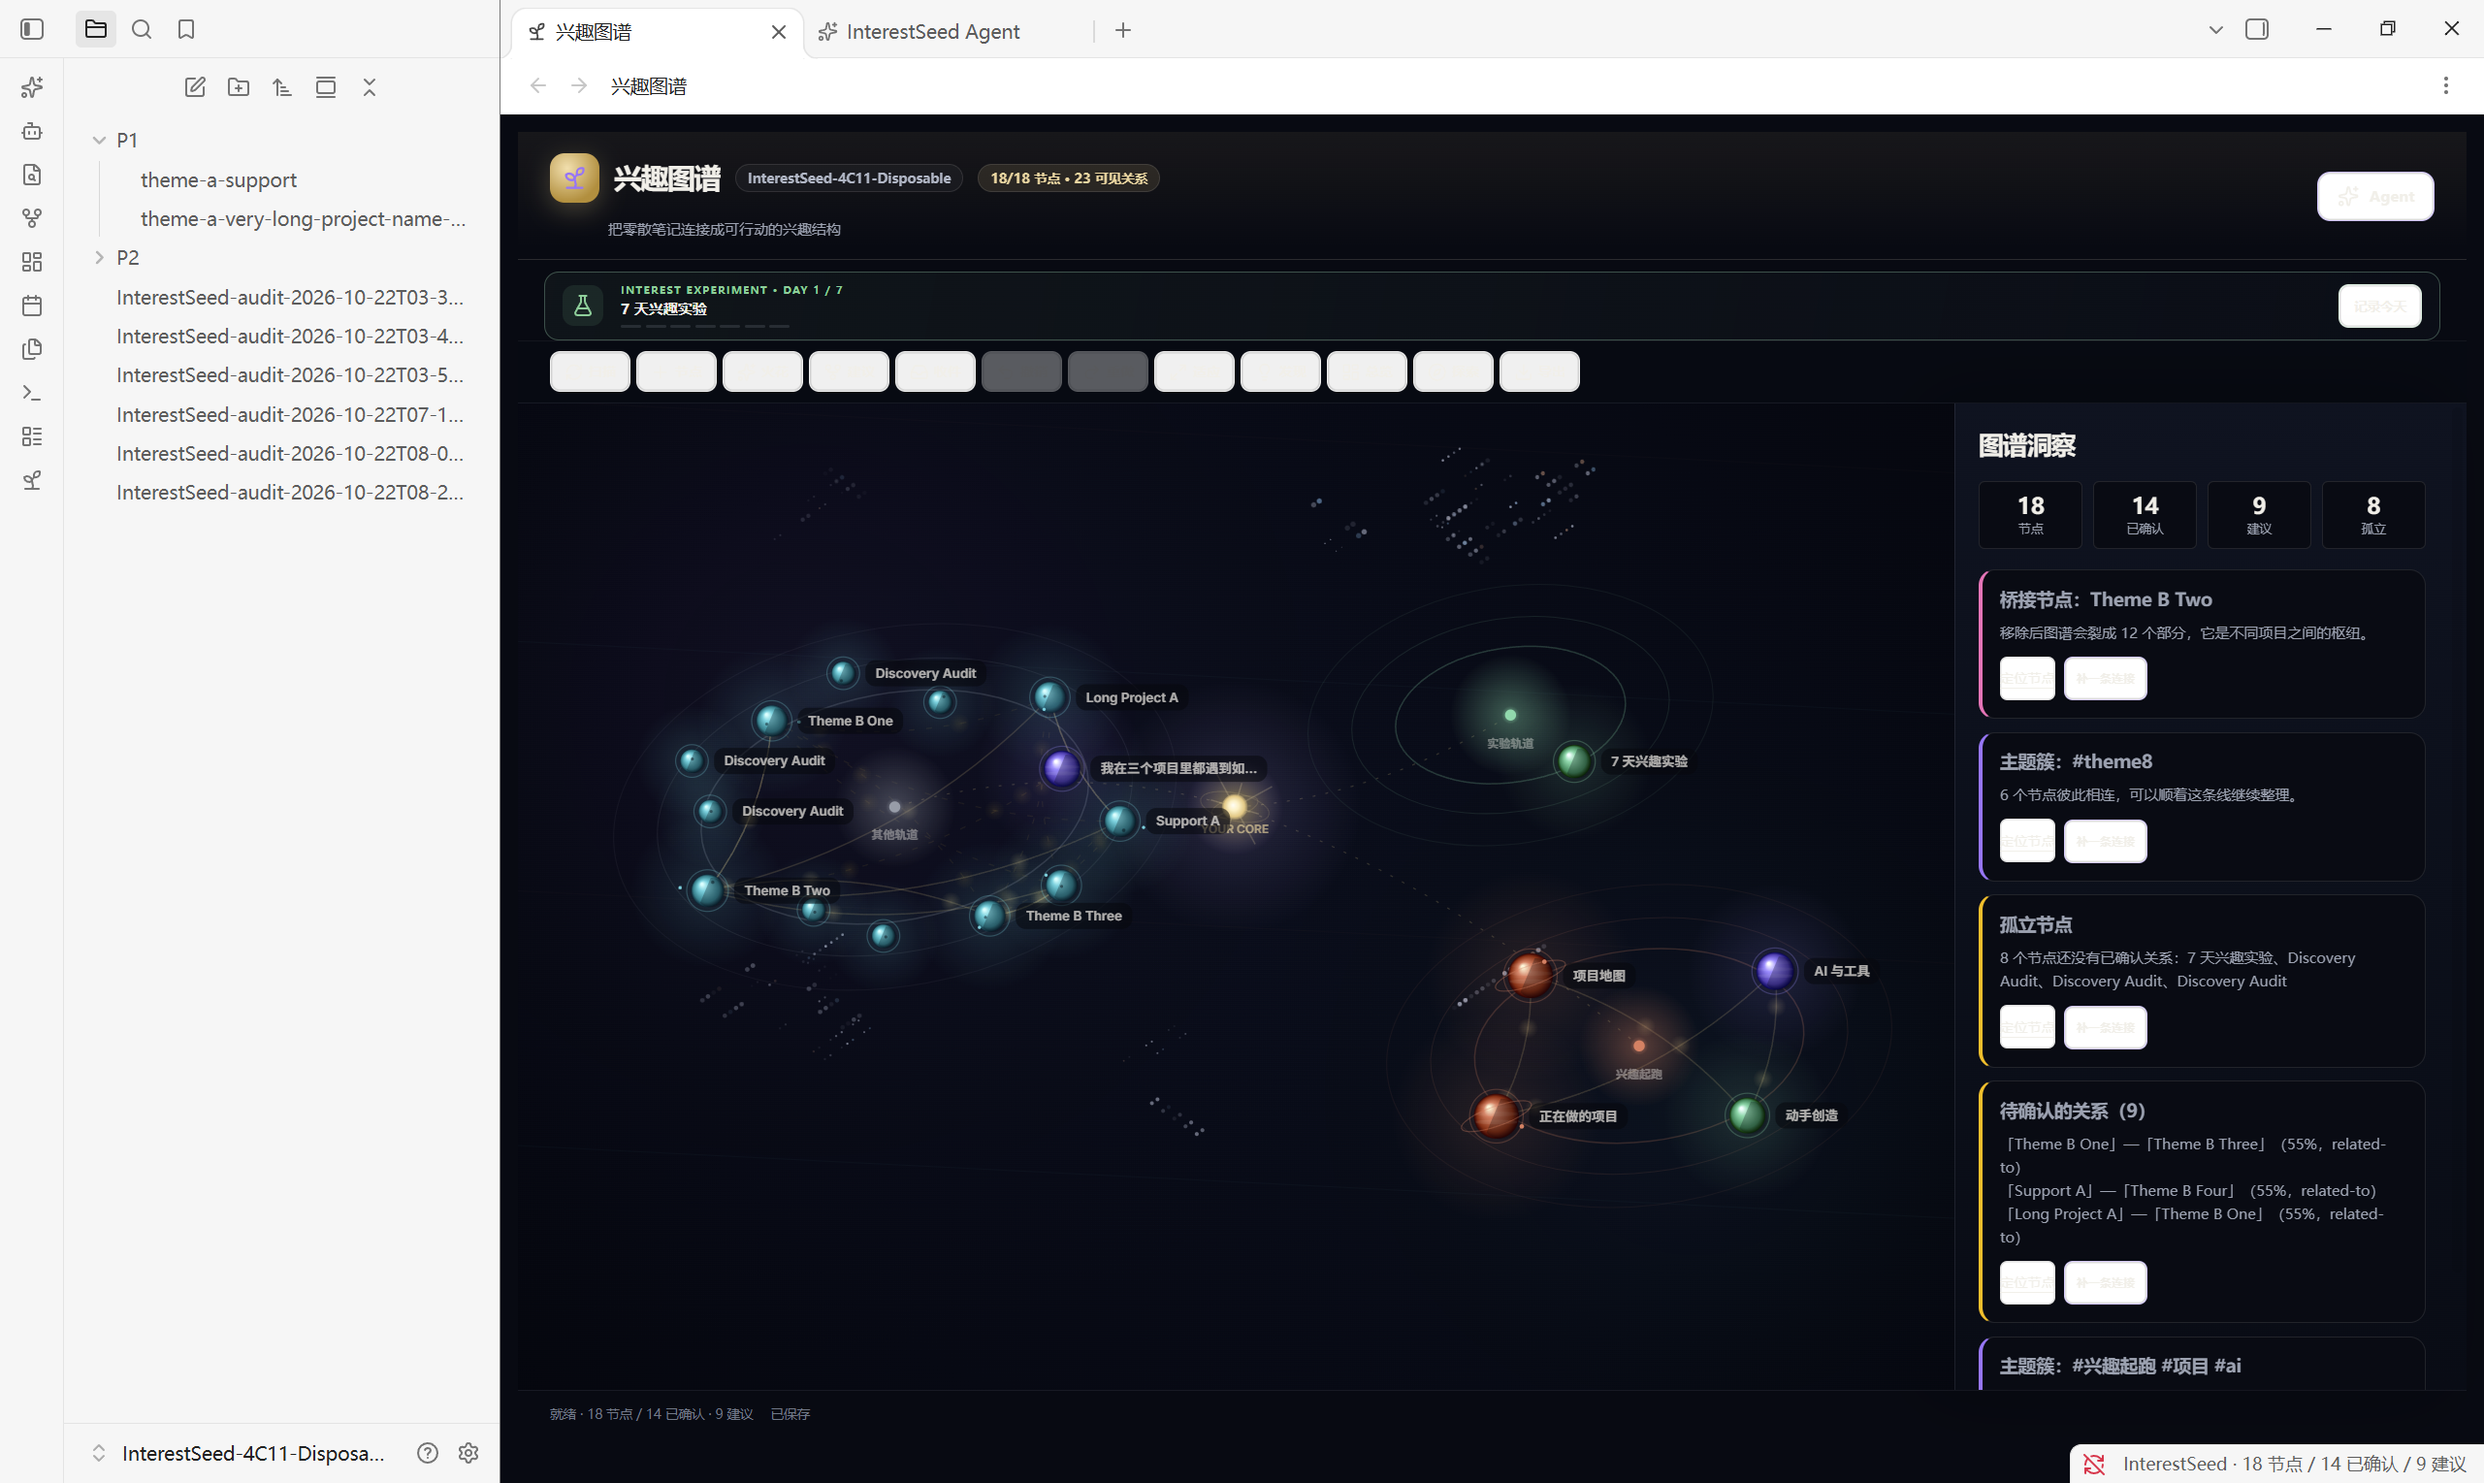
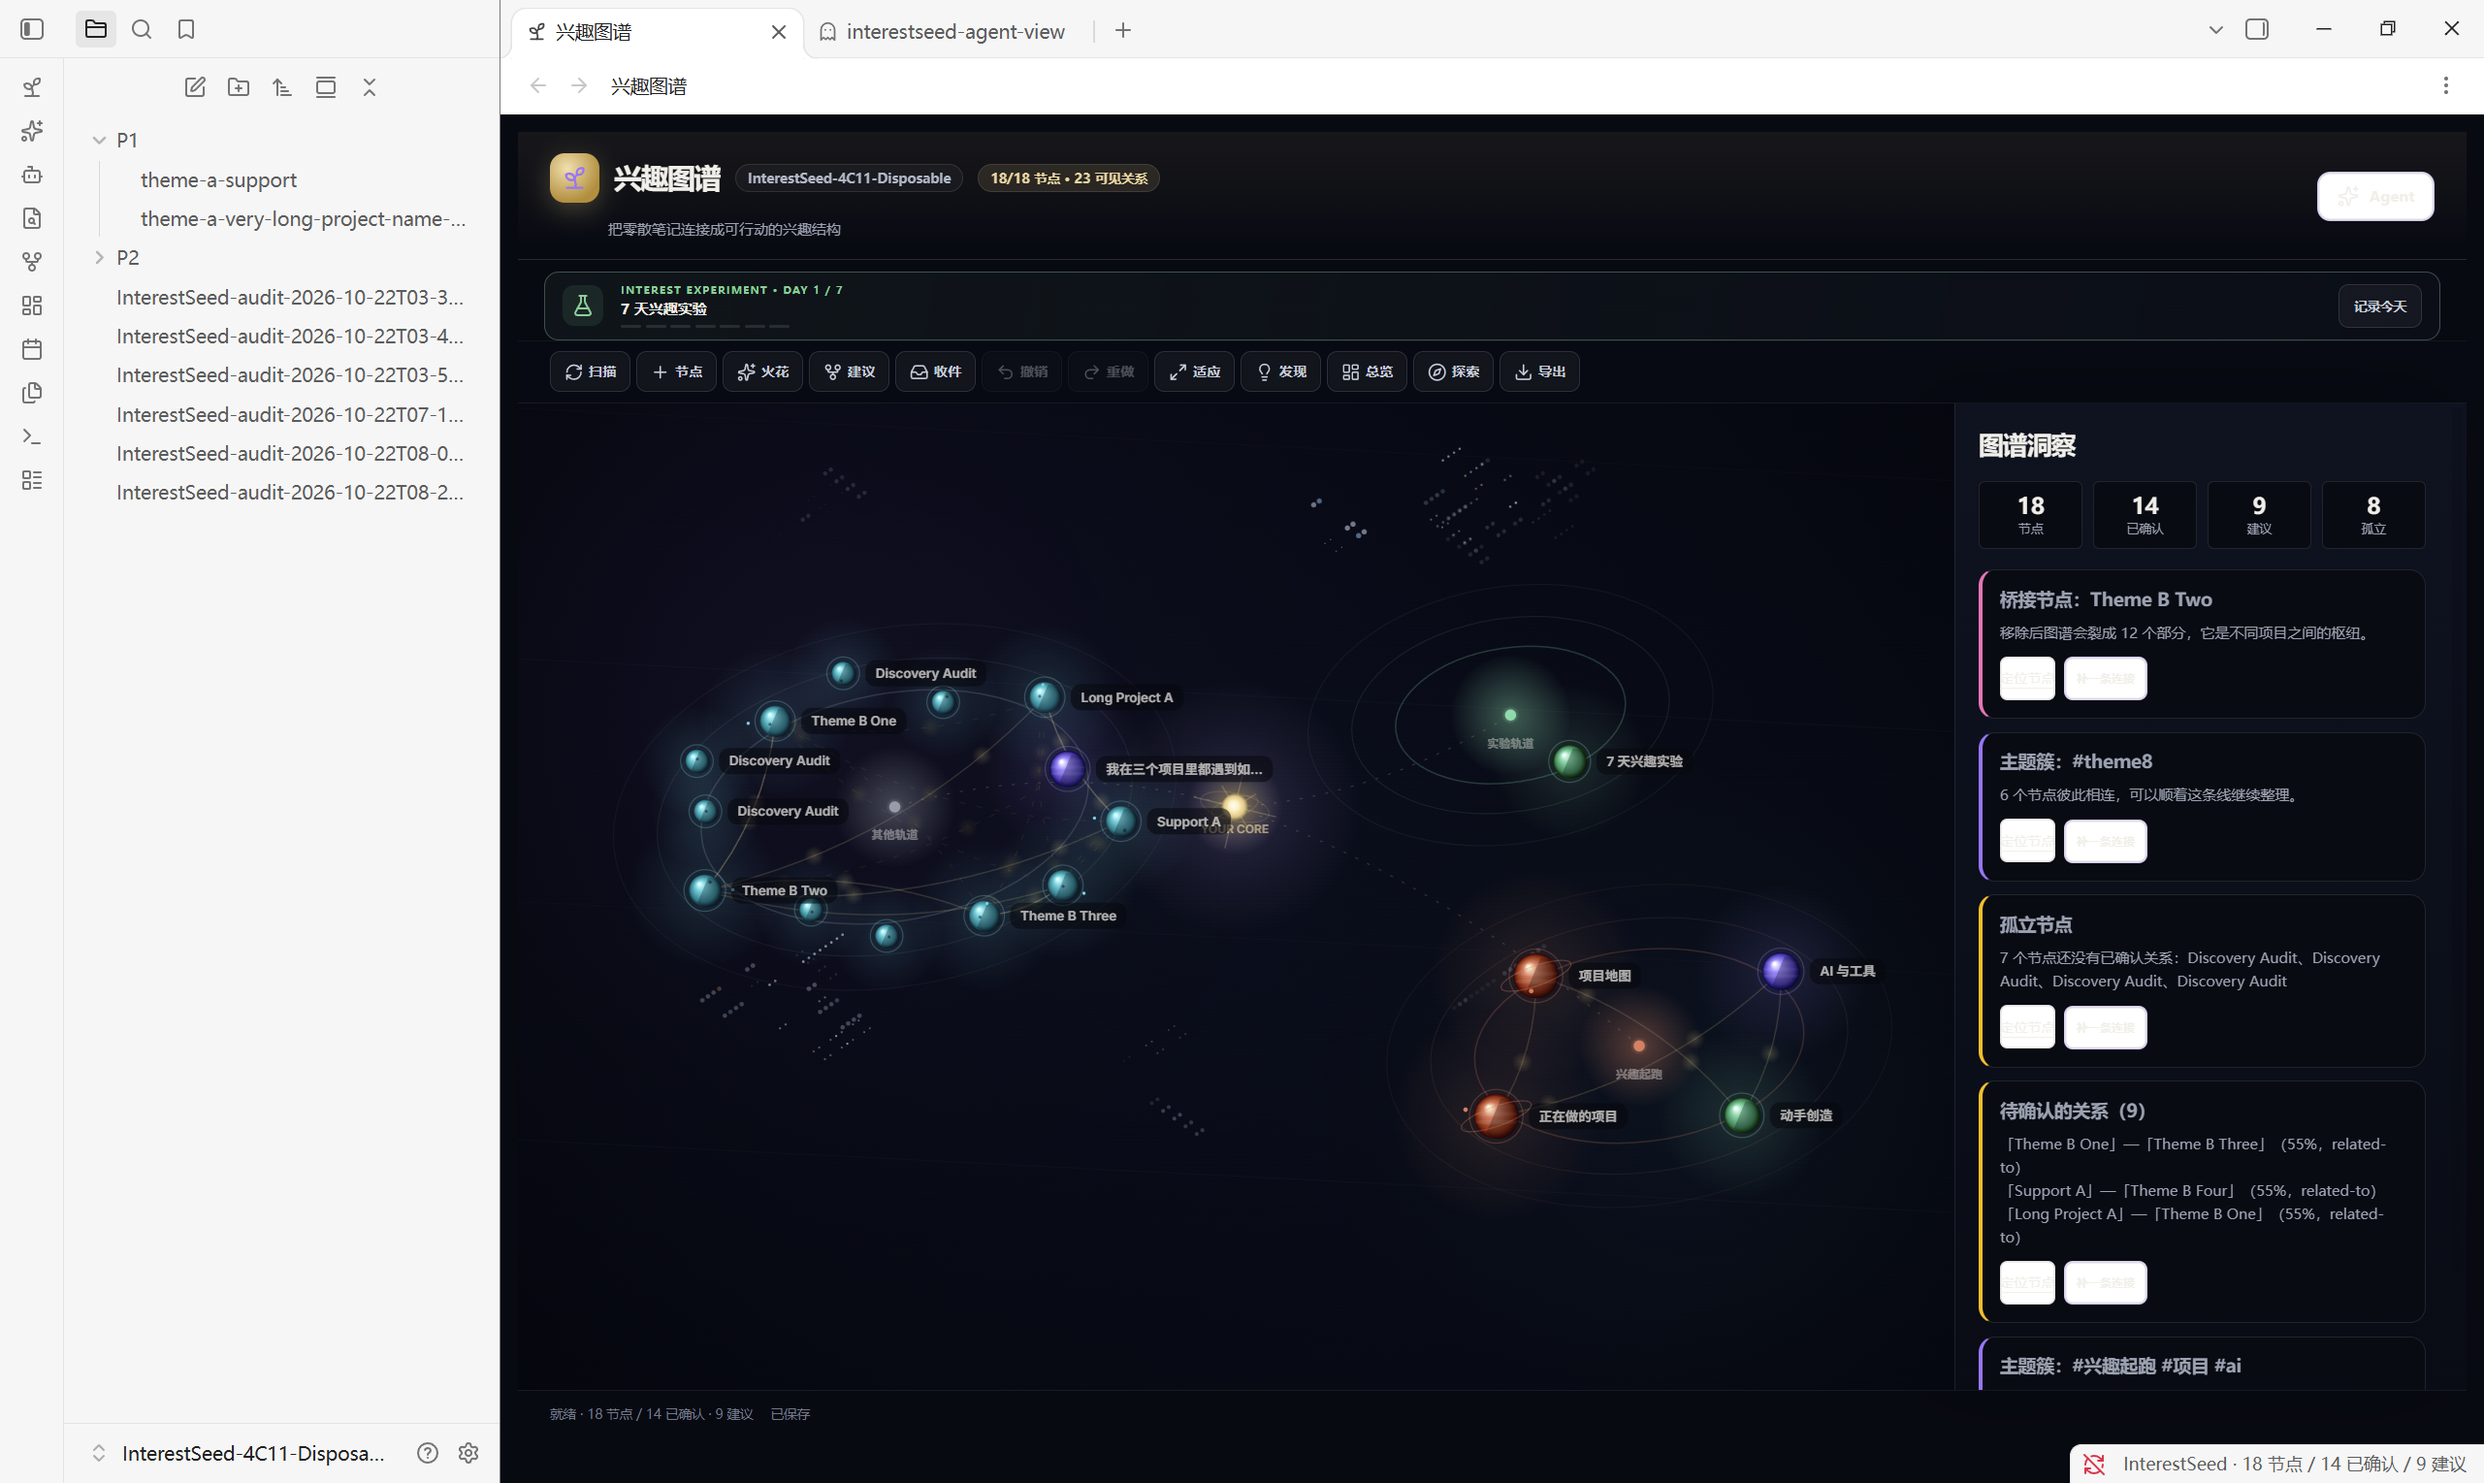
Release InterestSeed 1.1.0 after global audit

diff --git a/src/ui/CosmicGraphCanvas.ts b/src/ui/CosmicGraphCanvas.ts
@@ -150,6 +150,19 @@ export class CosmicGraphCanvas {
   private viewportTimer: number | null = null;
   private time = 0;
   private lastTime = performance.now();
+  private readonly motionQuery = window.matchMedia('(prefers-reduced-motion: reduce)');
+  private motionReduced = this.motionQuery.matches;
+  private readonly handleMotionChange = (): void => {
+    this.motionReduced = this.motionQuery.matches;
+    if (this.motionReduced) {
+      if (this.frame !== null) cancelAnimationFrame(this.frame);
+      this.frame = null;
+      this.draw();
+    } else if (this.frame === null) {
+      this.lastTime = performance.now();
+      this.loop();
+    }
+  };
   private readonly positions = new Map<string, { x: number; y: number }>();
   private readonly stars: Array<{
     x: number;
@@ -192,7 +205,9 @@ export class CosmicGraphCanvas {
     this.resizeObserver.observe(container);
     this.bindEvents();
     this.resize();
-    this.loop();
+    this.motionQuery.addEventListener('change', this.handleMotionChange);
+    if (this.motionReduced) this.draw();
+    else this.loop();
   }
 
   setGraph(graph: InterestSeedGraph, selectedId: string | null = null): void {
@@ -357,8 +372,17 @@ export class CosmicGraphCanvas {
     if (this.frame !== null) cancelAnimationFrame(this.frame);
     this.frame = null;
     if (this.viewportTimer !== null) clearTimeout(this.viewportTimer);
+    this.motionQuery.removeEventListener('change', this.handleMotionChange);
     this.resizeObserver?.disconnect();
     this.resizeObserver = null;
+    this.canvas.removeEventListener('pointerdown', this.handlePointerDown);
+    this.canvas.removeEventListener('pointermove', this.handlePointerMove);
+    this.canvas.removeEventListener('pointerup', this.handlePointerUp);
+    this.canvas.removeEventListener('pointercancel', this.handlePointerUp);
+    this.canvas.removeEventListener('pointerleave', this.handlePointerLeave);
+    this.canvas.removeEventListener('wheel', this.handleWheel);
+    this.canvas.removeEventListener('dblclick', this.handleDoubleClick);
+    this.canvas.removeEventListener('click', this.handleClick);
     this.canvas.remove();
   }
 

diff --git a/tests/ShareAnalysis.test.ts b/tests/ShareAnalysis.test.ts
@@ -1,0 +1,36 @@
+import { describe, expect, it } from 'vitest';
+import { analyzeShareText } from '../src/services/shareAnalysis';
+
+describe('share analysis', () => {
+  it('recognizes Douyin and keeps a clean short title', () => {
+    const result = analyzeShareText(
+      'AI 会议纪要：把周会变成行动项 https://www.douyin.com/video/123',
+    );
+    expect(result.platform).toBe('douyin');
+    expect(result.platformLabel).toBe('抖音');
+    expect(result.url).toContain('douyin.com');
+    expect(result.title).toBe('AI 会议纪要：把周会变成行动项');
+  });
+
+  it('recognizes Xiaohongshu share noise and extracts topics', () => {
+    const result = analyzeShareText(
+      '复制打开小红书，看看【视觉设计：封面三秒抓住人】 https://xhslink.com/a1b2',
+    );
+    expect(result.platform).toBe('xiaohongshu');
+    expect(result.title).toContain('视觉设计');
+    expect(result.topics).toContain('视觉与表达');
+  });
+
+  it('supports a plain sentence without inventing a platform', () => {
+    const result = analyzeShareText('我想知道为什么自己总是重新开始');
+    expect(result.platform).toBe('text');
+    expect(result.url).toBeNull();
+    expect(result.title).toBe('我想知道为什么自己总是重新开始');
+  });
+
+  it('returns one explicit next question', () => {
+    const result = analyzeShareText('产品增长：先找到愿意付费的 10 个人');
+    expect(result.nextQuestion).toContain('哪个兴趣');
+    expect(result.why).toContain('产品与商业');
+  });
+});

diff --git a/src/core/GraphStore.ts b/src/core/GraphStore.ts
@@ -762,7 +762,7 @@ export class InterestSeedGraphStore implements GraphStore {
     for (const node of this.nodes.values()) byType[node.type] += 1;
 
     for (const node of this.nodes.values()) {
-      if (!confirmedNodes.has(node.id)) orphans += 1;
+      if (!confirmedNodes.has(node.id) && !node.metadata?.nextStep) orphans += 1;
     }
 
     return {

diff --git a/review/1.1.0-global-audit.md b/review/1.1.0-global-audit.md
@@ -1,0 +1,120 @@
+# InterestSeed 1.1.0 — Global audit
+
+## Scope
+
+- Obsidian lifecycle and view lifecycle;
+- graph mutation, persistence, undo and error paths;
+- share intake → decision → graph → next action;
+- experiment state, daily gate and completion;
+- cosmic canvas performance, reduced motion and cleanup;
+- student and office-worker journeys through real Obsidian CDP;
+- release metadata, plugin loading, permissions and workflow.
+
+## References studied
+
+- `obsidianmd/obsidian-sample-plugin`: view/settings lifecycle, command registration and manifest conventions.
+- `community-archive/obsidian-kanban`: stateful view structure and editor integration.
+- `blacksmithgu/obsidian-dataview`: data import/query separation and large-graph thinking.
+- `zsviczian/obsidian-excalidraw-plugin`: canvas performance, view state and keyboard/reduced-motion concerns.
+
+The goal was not to copy their UI. The lesson was: keep the plugin lifecycle boring, keep the domain state explicit, and keep a single obvious action in the interface.
+
+## Audit findings and fixes
+
+### P0 — plugin could fail to load
+
+`manifest.json` was rewritten with a UTF-8 BOM during the 1.1.0 metadata update. Obsidian did not discover the plugin.
+
+Fixed by writing BOM-free UTF-8 JSON and verifying the first byte is `{`.
+
+### P1 — two competing experiment actions
+
+The NEXT bar and experiment strip both offered “record today”.
+
+Fixed: the experiment strip owns that action; NEXT hides for the experiment-only state.
+
+### P1 — generated experiment was counted as an orphan
+
+The experiment node is an action, not an unclassified content node.
+
+Fixed:
+
+- excluded `metadata.nextStep` from graph orphan stats;
+- excluded it from insight orphan cards;
+- excluded it from NEXT’s “connect this node” branch.
+
+### P1 — long graph labels made the map hard to scan
+
+Fixed: graph labels use a compact title (colon/comma aware, 18 chars max). Full titles stay in the detail panel and raw metadata.
+
+### P1 — spark decision was implicit
+
+A spark could sit in the graph without a clear “keep or pass” moment.
+
+Fixed: spark detail now shows:
+
+```text
+这个火花还只是一个候选。
+它和你的哪个兴趣有关？
+[留下并连接] [只是路过]
+```
+
+“只是路过” requires confirmation and removes the spark.
+
+### P1 — share intake lacked user context
+
+Fixed: the Spark modal now has an optional “为什么留下？” field, persisted as `metadata.why` and shown in the decision card.
+
+### P2 — visual surfaces were inconsistent
+
+Fixed:
+
+- dark onboarding, spark and experiment modals;
+- dark toolbar controls;
+- experiment modal auto height;
+- reduced-motion support in the cosmic canvas;
+- event listener cleanup on canvas destroy.
+
+### P2 — platform intake was opaque
+
+Added deterministic parsing for:
+
+- Douyin / Xiaohongshu / Bilibili / YouTube / web / plain text;
+- title cleanup of common share noise;
+- topic inference;
+- explicit next question.
+
+No private cookies, scraping, or fabricated transcripts.
+
+## Verification
+
+```text
+50 test files
+451 tests passing
+typecheck / lint / build passing
+```
+
+Real CDP regression:
+
+```text
+Student: 14 nodes / 11 edges / Day 1 recorded / same-day rejected
+Office worker: 13 nodes / 12 edges / Day 1 recorded / same-day rejected
+```
+
+Evidence:
+
+```text
+review/sim-artifacts/
+review/office-sim-artifacts/
+review/student-simulation.md
+review/office-worker-simulation.md
+```
+
+## Known next steps
+
+These are intentionally not hidden:
+
+1. 3-day starter experiment for users who cannot sustain 7 consecutive days.
+2. Cluster-first focus mode before showing all planets.
+3. Mobile share target / clipboard bridge, so Douyin → Inbox is under five seconds.
+4. Agent enrichment of shared content only when a real transcript or user-provided description exists.

diff --git a/README.md b/README.md
@@ -8,8 +8,8 @@
 
 <p>
   <img alt="Obsidian" src="https://img.shields.io/badge/Obsidian-1.5%2B-7c3aed" />
-  <img alt="Version" src="https://img.shields.io/badge/version-1.0.0-0ea5e9" />
-  <img alt="Tests" src="https://img.shields.io/badge/tests-447%20passing-22c55e" />
+  <img alt="Version" src="https://img.shields.io/badge/version-1.1.0-0ea5e9" />
+  <img alt="Tests" src="https://img.shields.io/badge/tests-451%20passing-22c55e" />
   <img alt="License" src="https://img.shields.io/badge/license-AGPL--3.0-f59e0b" />
   <img alt="Local first" src="https://img.shields.io/badge/local--first-yes-14b8a6" />
 </p>
@@ -173,7 +173,7 @@ InterestSeed 让你：
 
 ### 手动安装
 
-1. 下载最新 Release 的 `interestseed-v1.0.0.zip`；
+1. 下载最新 Release 的 `interestseed-v1.1.0.zip`；
 2. 解压到：
 
 ```text
@@ -192,7 +192,7 @@ styles.css
 
 ### 不安装 Obsidian
 
-[下载 `interestseed-skill-v1.0.0.zip`](https://github.com/lxc248/-interestseed/releases/download/v1.0.0/interestseed-skill-v1.0.0.zip)，放入用户 Agent 的 skills 目录，阅读 `skill/SKILL.md`。Agent 会生成一个独立的 `star-map.html`，双击即可查看行星、轨道和星云；不需要 Obsidian。
+[下载 `interestseed-skill-v1.1.0.zip`](https://github.com/lxc248/-interestseed/releases/download/v1.1.0/interestseed-skill-v1.1.0.zip)，放入用户 Agent 的 skills 目录，阅读 `skill/SKILL.md`。Agent 会生成一个独立的 `star-map.html`，双击即可查看行星、轨道和星云；不需要 Obsidian。
 
 ### 从源码构建
 
@@ -210,7 +210,7 @@ npm run deploy
 npm run verify
 ```
 
-包含 typecheck、447 个测试、ESLint 与生产构建。
+包含 typecheck、451 个测试、ESLint 与生产构建。
 
 ---
 

diff --git a/README.en.md b/README.en.md
@@ -8,8 +8,8 @@
 
 <p>
   <img alt="Obsidian" src="https://img.shields.io/badge/Obsidian-1.5%2B-7c3aed" />
-  <img alt="Version" src="https://img.shields.io/badge/version-1.0.0-0ea5e9" />
-  <img alt="Tests" src="https://img.shields.io/badge/tests-447%20passing-22c55e" />
+  <img alt="Version" src="https://img.shields.io/badge/version-1.1.0-0ea5e9" />
+  <img alt="Tests" src="https://img.shields.io/badge/tests-451%20passing-22c55e" />
   <img alt="License" src="https://img.shields.io/badge/license-AGPL--3.0-f59e0b" />
   <img alt="Local first" src="https://img.shields.io/badge/local--first-yes-14b8a6" />
 </p>
@@ -86,7 +86,7 @@ The core rule:
 
 ## Install
 
-1. Download `interestseed-v1.0.0.zip` from Releases.
+1. Download `interestseed-v1.1.0.zip` from Releases.
 2. Extract into:
 
 ```text

diff --git a/CHANGELOG.md b/CHANGELOG.md
@@ -1,5 +1,15 @@
 # Changelog
 
+## 1.1.0 — Clear next action
+
+- Global audit of the student and office-worker journeys.
+- Share analysis: platform, short title, inferred topics, `why saved` note and one explicit spark decision.
+- NEXT bar: one primary action at a time; duplicate experiment CTAs removed.
+- Experimental nodes are no longer counted as orphan nodes.
+- Compact graph labels keep the map readable; full titles remain in the detail panel.
+- Unified dark cosmic surfaces for onboarding, spark, experiment and toolbar.
+- Added share-analysis tests and a 1.1.0 release workflow.
+
 ## 1.0.0 — The first living constellation
 
 - Seed Sprint: four choices → a first confirmable interest constellation.
